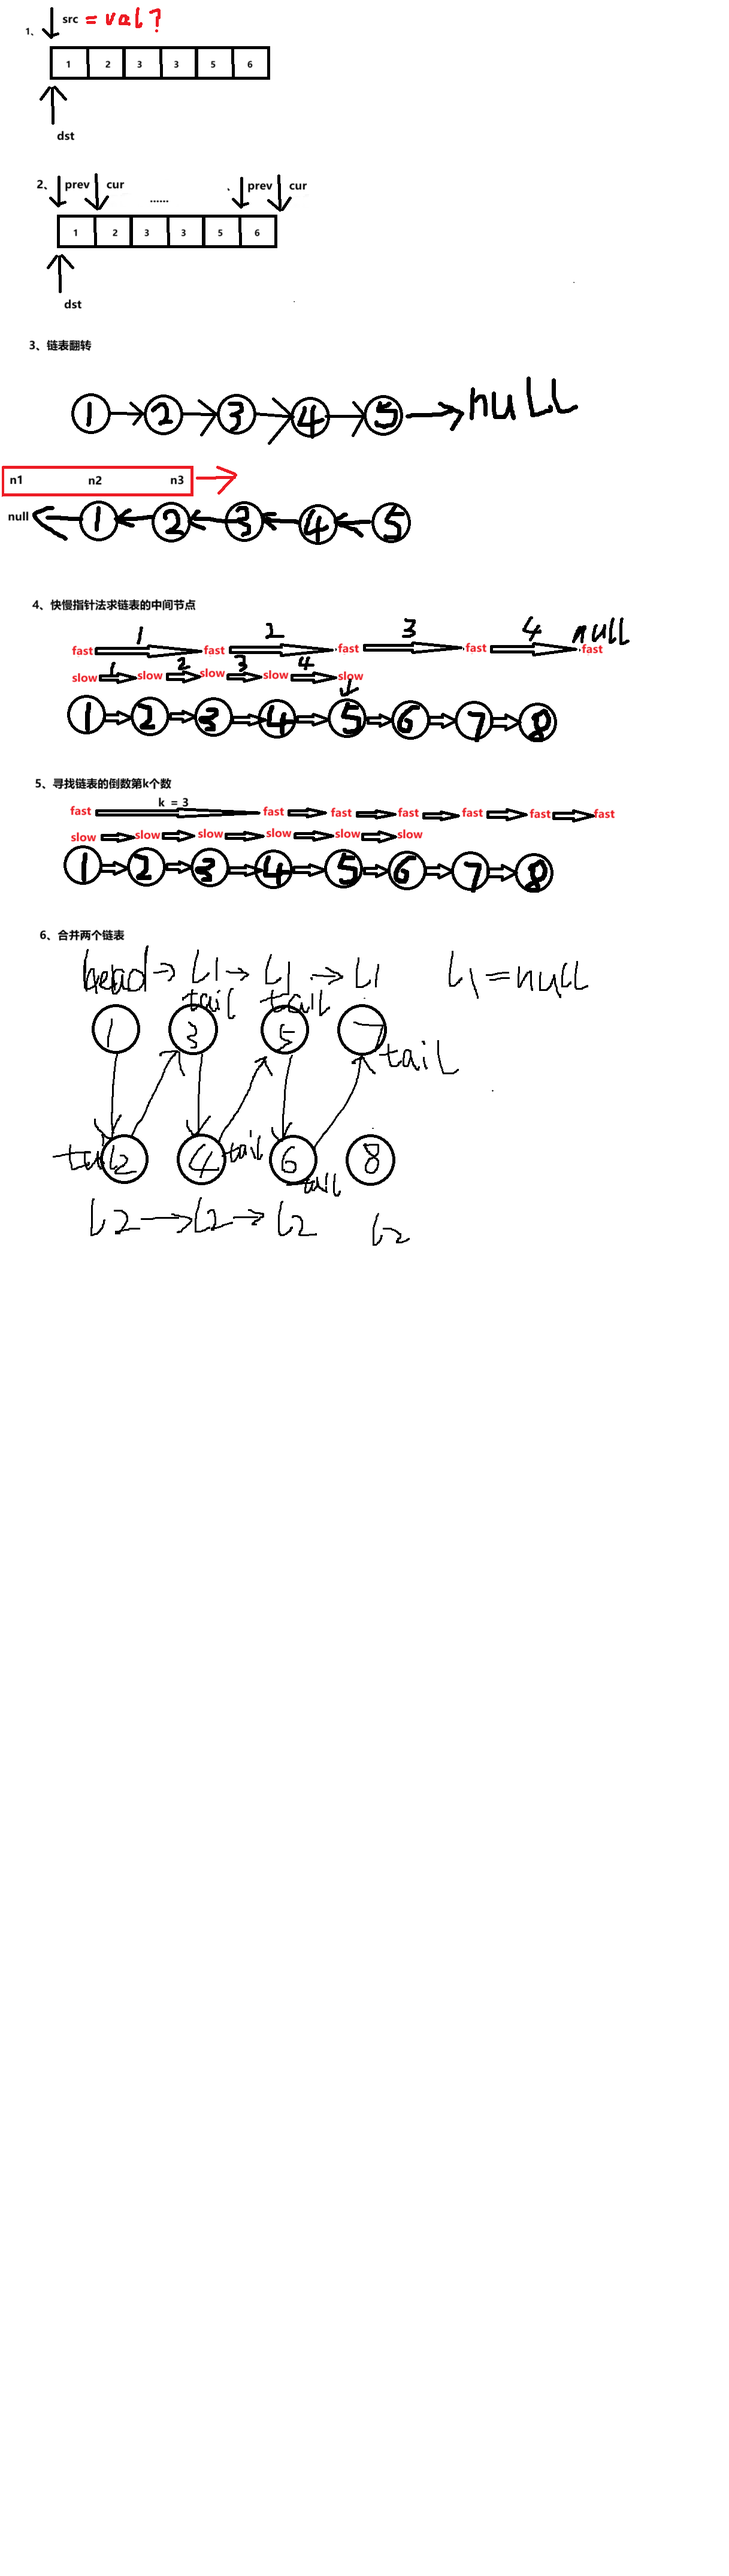
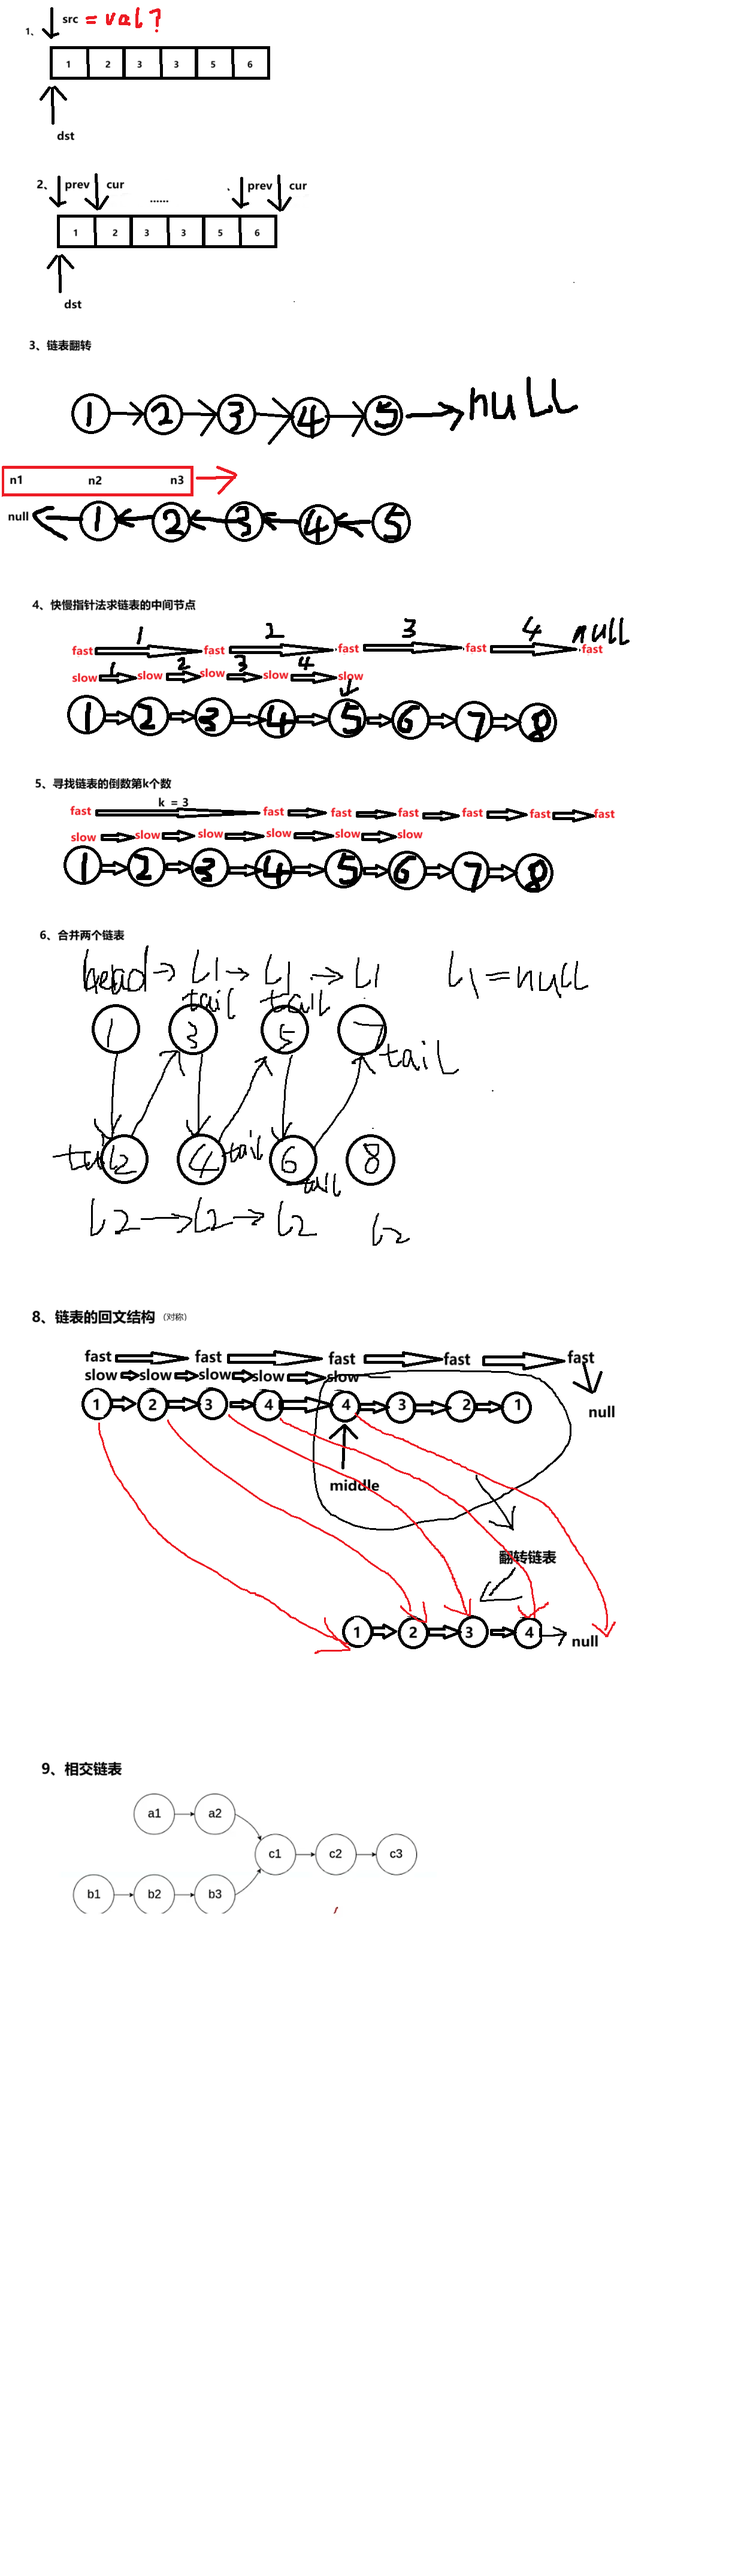
intersect list

diff --git a/common_practice/test.c b/common_practice/test.c
@@ -417,6 +417,53 @@ struct ListNode
     struct ListNode* next;
 };
 
+// 相交链表
+struct ListNode* intersectList(struct ListNode* Head1, struct ListNode* Head2){
+
+    struct ListNode* l1 = Head1;
+    struct ListNode* l2 = Head2;
+    int len1 = 0;
+    int len2 = 0;
+    // 判断是否是相交链表，不是则返回NULL
+    while(l1->next != NULL){
+        len1++;
+        l1 = l1->next;
+    }
+
+    while(l2->next != NULL){
+        len2++;
+        l2 = l2->next;
+    }
+    
+    if(l1 != l2){
+        return NULL;
+    }
+
+    // 找出两链表长度差
+    int gap = abs(len1,len2);
+
+    struct ListNode* longList = Head1;
+    struct ListNode* shortList = Head2;
+
+    if(len1 < len2){
+        longList = Head2;
+        shortList = Head1;
+    }
+
+    // 长链表先走差距步
+    while(gap--){
+        longList = longList->next;
+    }
+
+    // 找到相交节点
+    while(longList != shortList){
+        longList = longList->next;
+        shortList = shortList->next;
+    }
+    return longList;
+
+}
+
 // 判断链表是否为回文结构
 bool checkPalindrome(struct ListNode* list){
 
